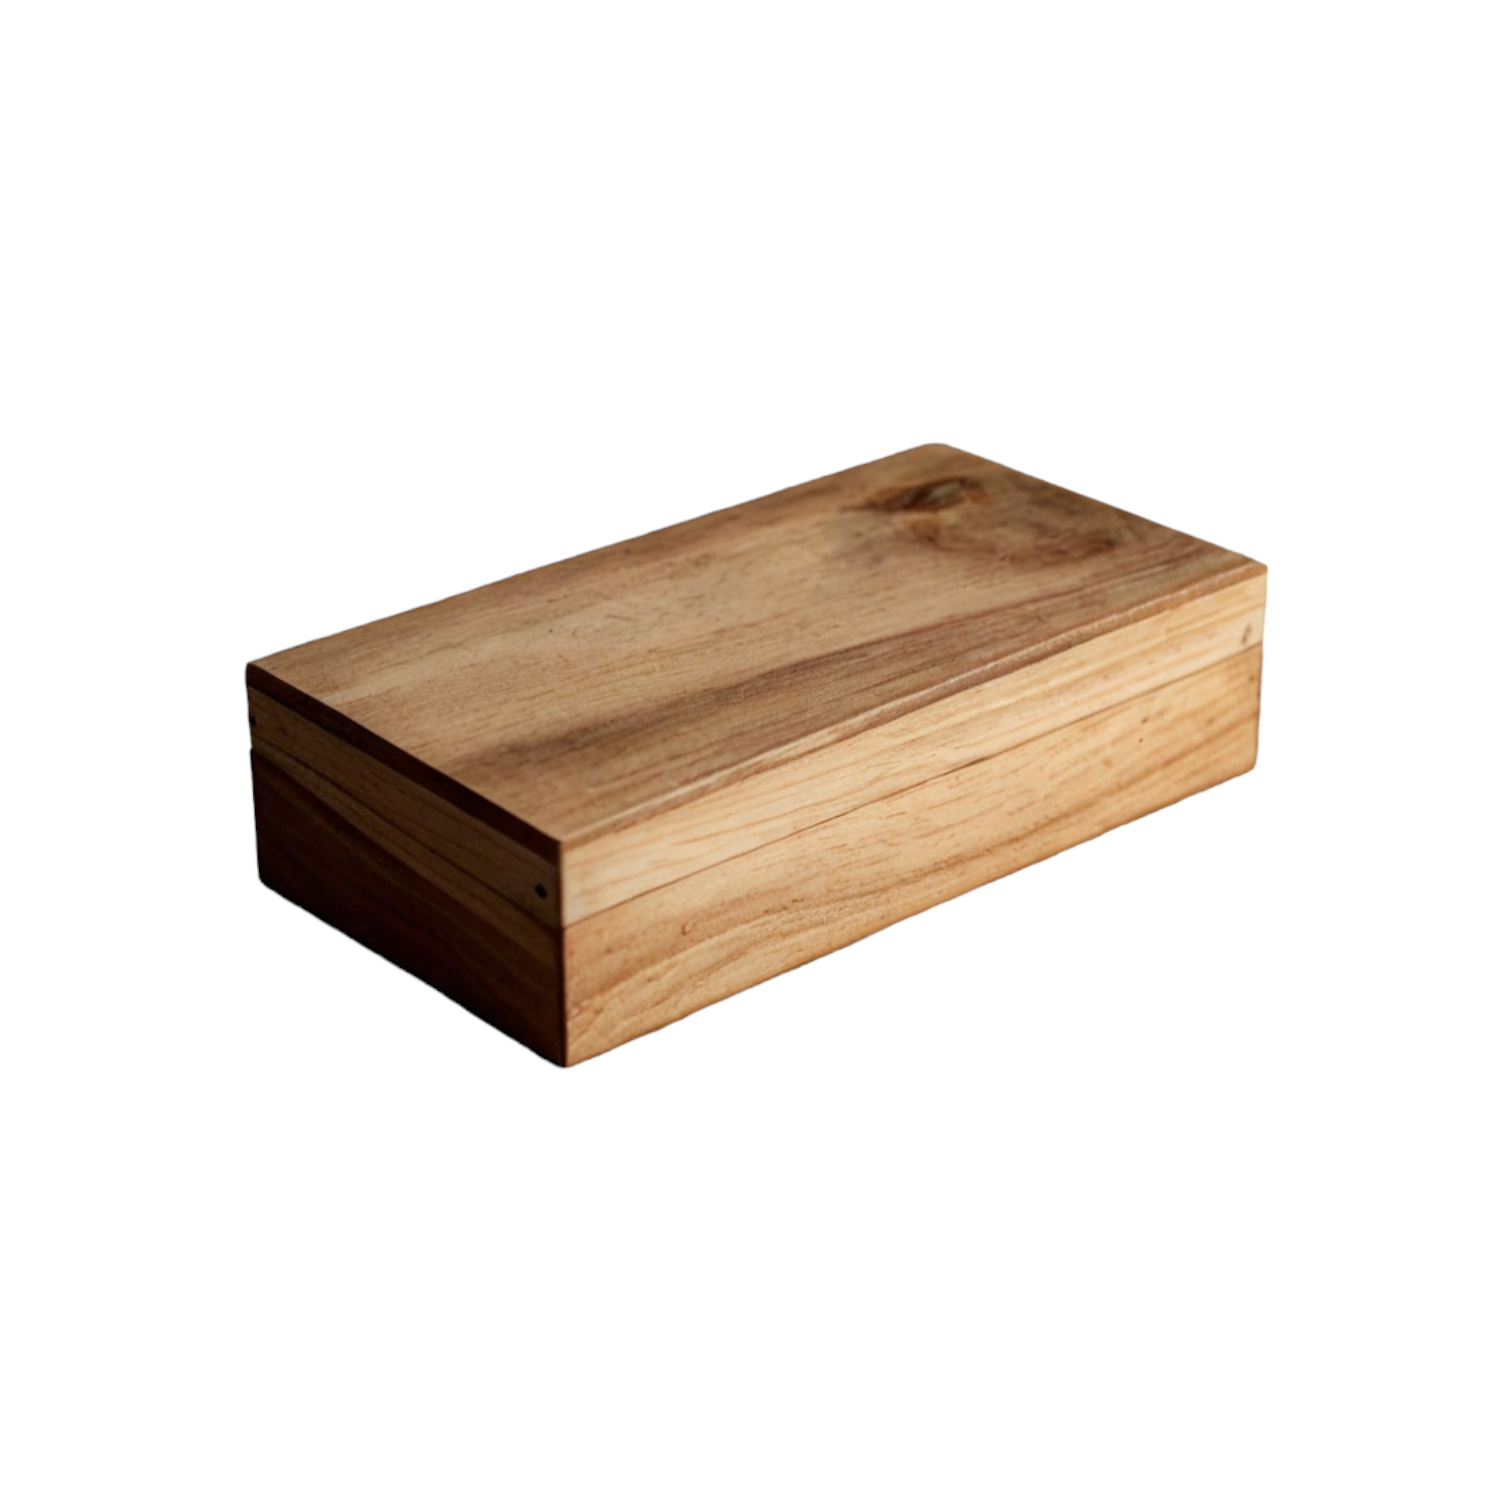
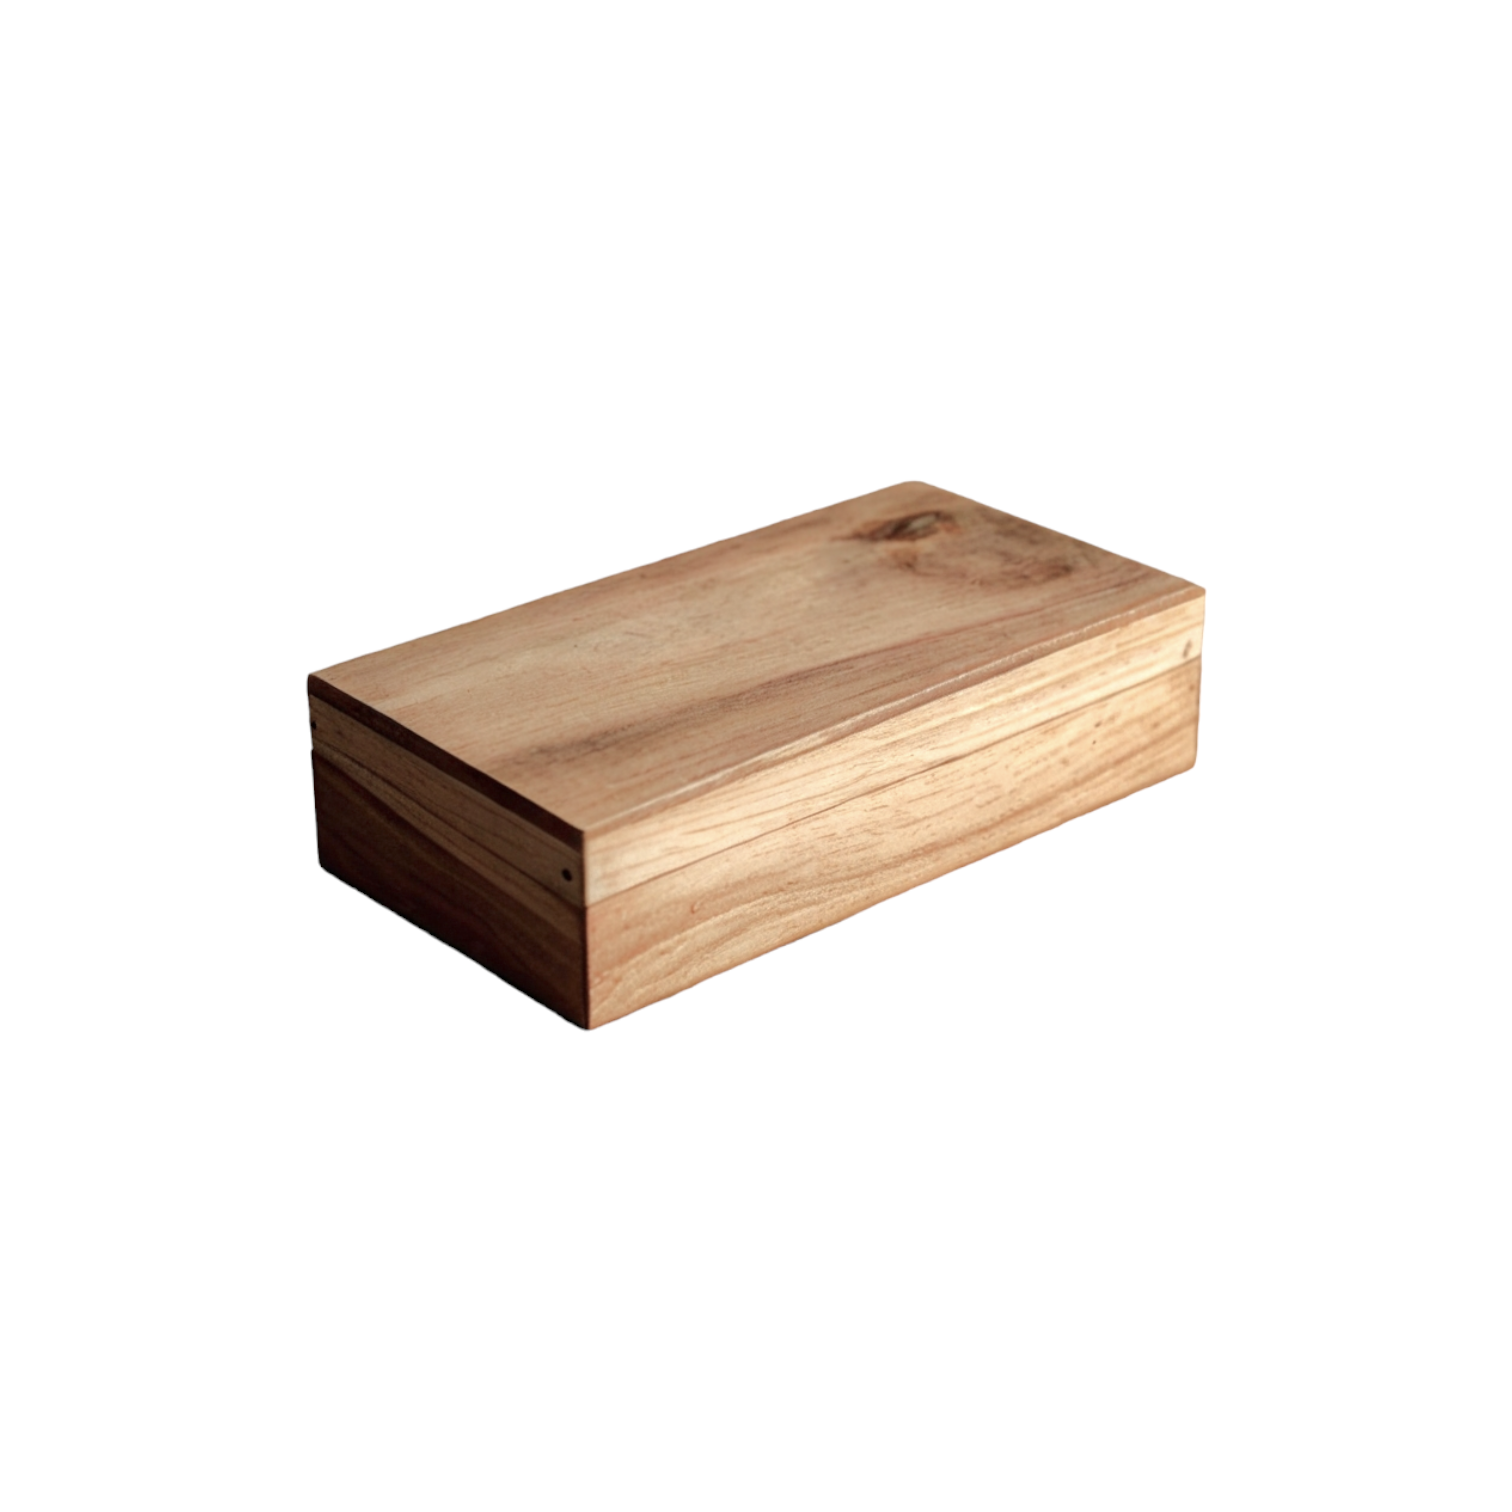
Imágenes definitivas puestas

Changed region(s): [[0.1554, 0.2798, 0.8393, 0.7149]]

diff --git a/src/data/index.ts b/src/data/index.ts
@@ -37,7 +37,7 @@ export const products: Product[] = [
     price: 18000,
     link_whatsapp: 'https://wa.link/3n0fk2',
     description: "Perfecta para una tarde inolvidable con amigos. La M-Crate Box incluye una selección equilibrada para asegurar una experiencia placentera y compartida. contiene 9 unidades,  No olvides llevar tus snacks favoritos.",
-    cover: "m.jpg", // Actualiza la URL de la imagen de la caja mediana
+    cover: "m.png", // Actualiza la URL de la imagen de la caja mediana
     coverCredits: "",
     category: ProductCategory.cratebox,
     units: 9,
@@ -49,7 +49,7 @@ export const products: Product[] = [
     price: 100000,
     link_whatsapp: 'https://wa.link/3n0fk2',
     description: "La XL-Crate Box es ideal para grandes eventos o celebraciones. Con 50 unidades, esta caja garantiza que todos en la fiesta tengan una experiencia premium. ¡Asegúrate de tener suficiente espacio para compartir!",
-    cover: "xl.jpg", // Actualiza la URL de la imagen de la caja extra grande
+    cover: "xl.png", // Actualiza la URL de la imagen de la caja extra grande
     coverCredits: "",
     category: ProductCategory.cratebox,
     units: 50,
@@ -61,7 +61,7 @@ export const products: Product[] = [
     price: 200000,
     link_whatsapp: 'https://wa.link/3n0fk2',
     description: "Para los eventos más grandes, la Max-Crate Box es la opción definitiva. Con un máximo de 100 unidades, esta caja está diseñada para aquellos que buscan llevar su experiencia al siguiente nivel. Perfecta para festivales y grandes reuniones.",
-    cover: "extra.jpg", // Actualiza la URL de la imagen de la caja máxima
+    cover: "extra.png", // Actualiza la URL de la imagen de la caja máxima
     coverCredits: "",
     category: ProductCategory.cratebox,
     units: 100,
